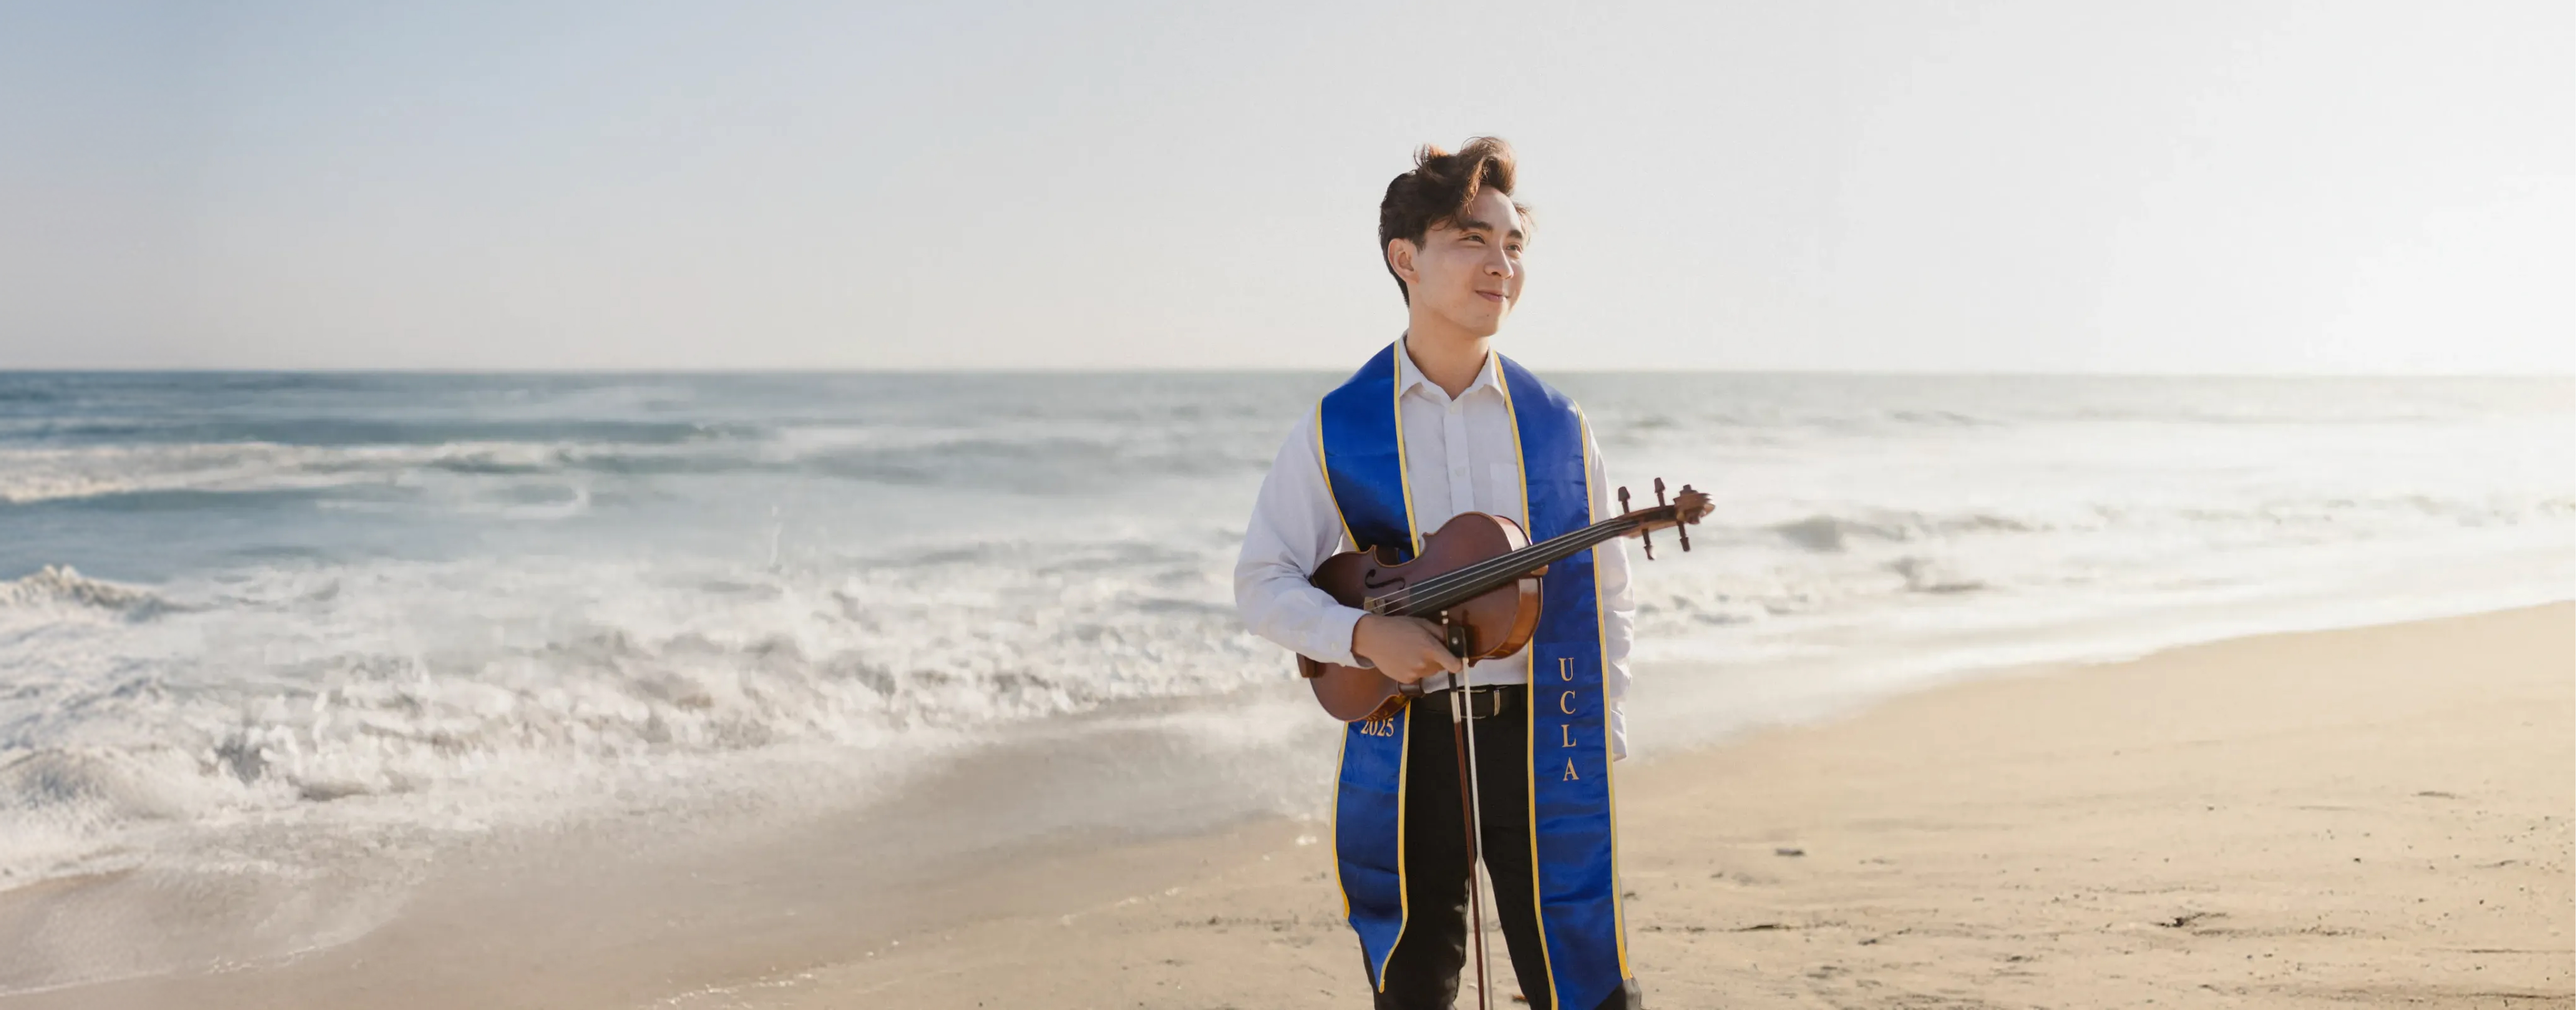
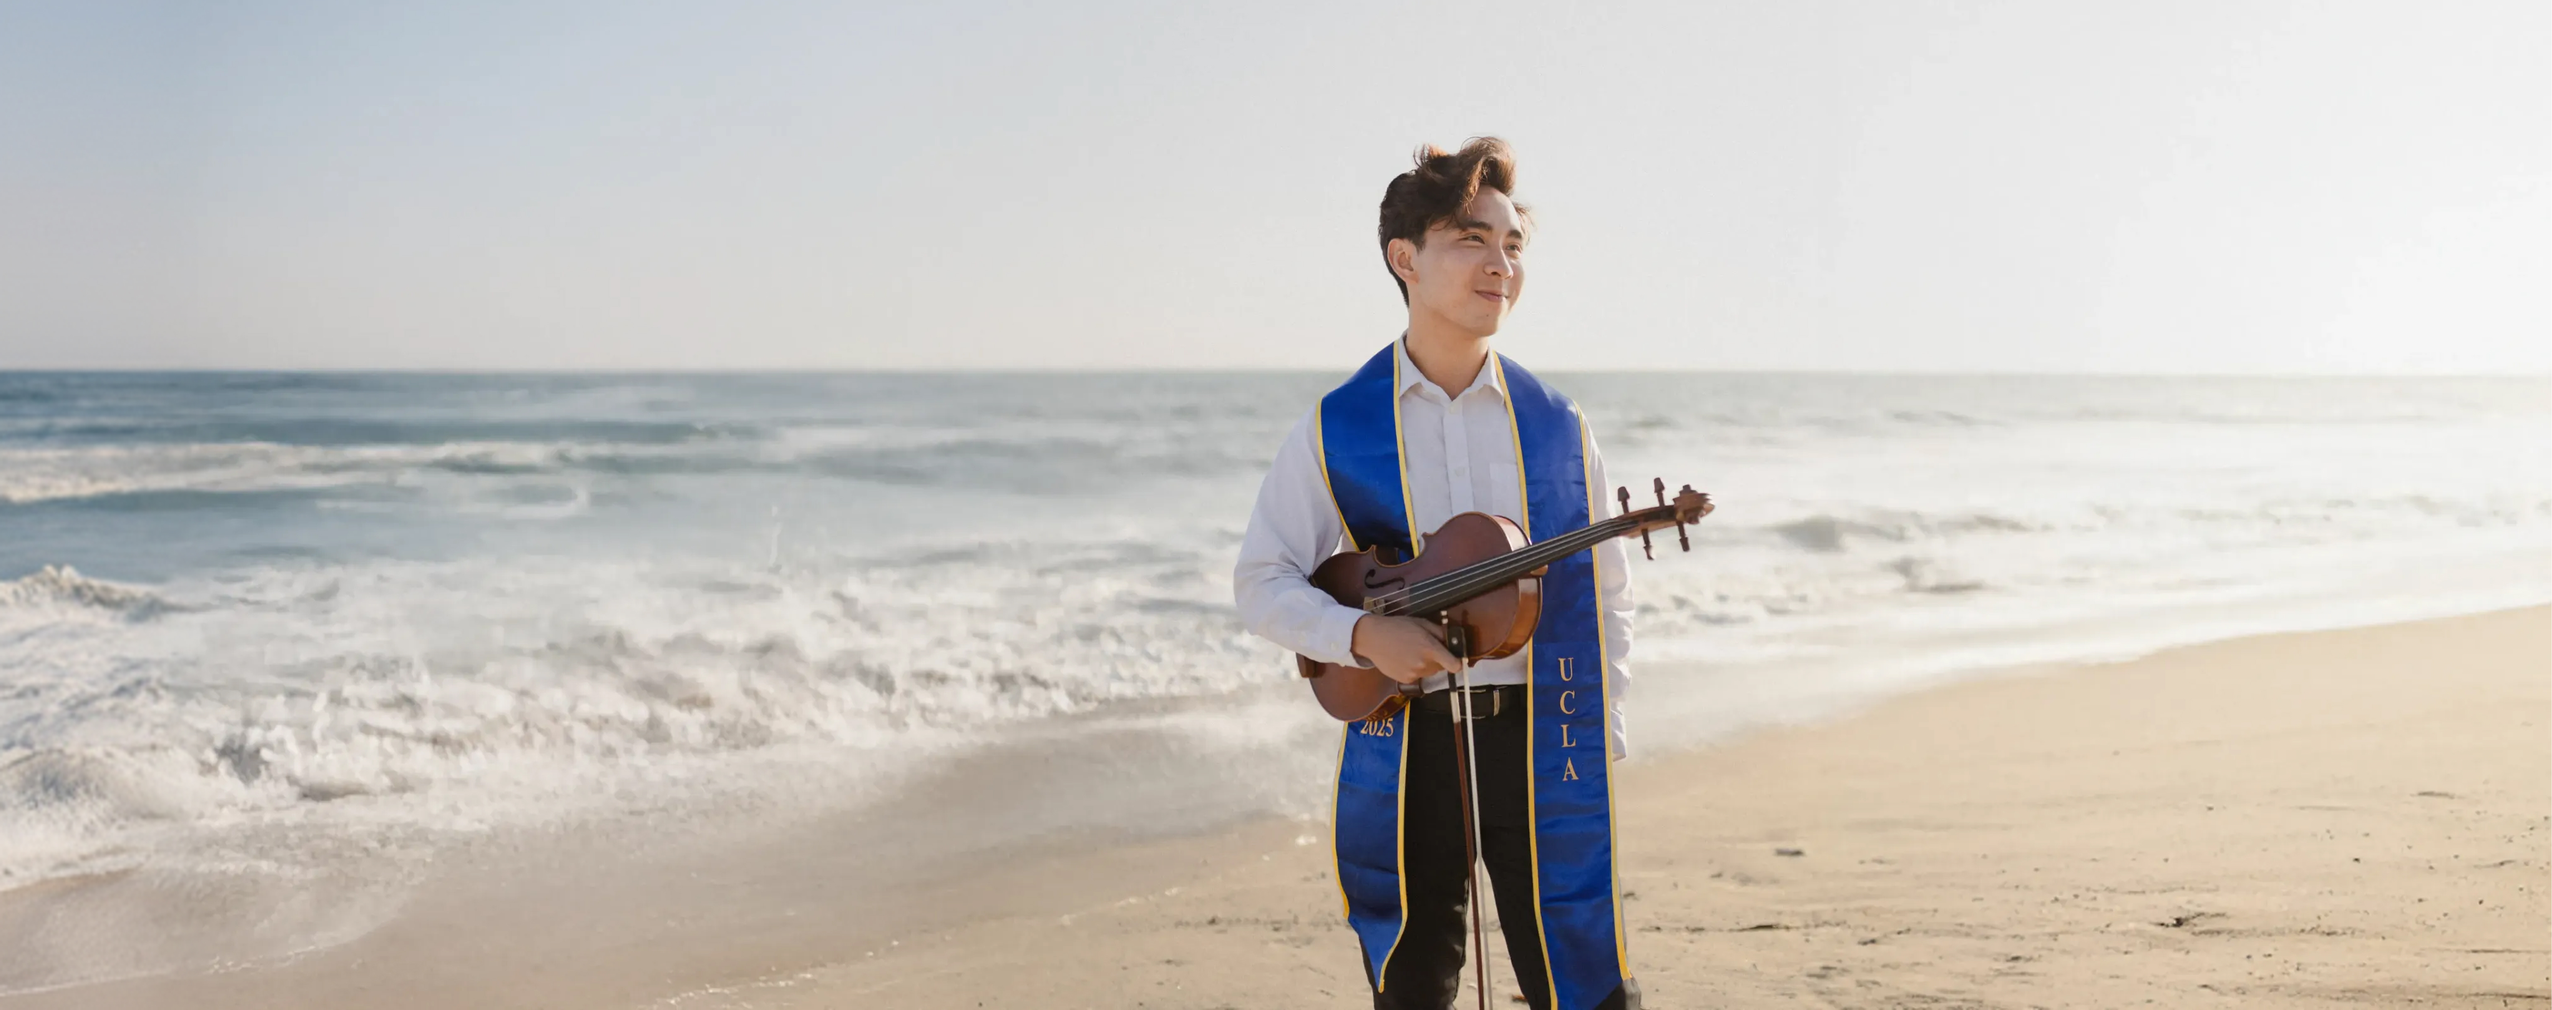
tweaks pt. 3

diff --git a/index.html b/index.html
@@ -262,8 +262,8 @@
           <div class="features">
             <div class="feature reveal">
               <p class="subheading">Custom Setlist</p>
-              <p>Unlimited selections from my <a  class="nav-music-2 inline" onclick="enableScroll()">repertoire</a> of 160+ songs <em>(outside requests not included)</em>.</p>
-              <!-- repertoire count as of 04/30/2026: 168 -->
+              <p>Unlimited selections from my <a  class="nav-music-2 inline" onclick="enableScroll()">repertoire</a> of 170+ songs <em>(outside requests not included)</em>.</p>
+              <!-- repertoire count as of 05/01/2026: 170 -->
             </div>
             <div class="feature reveal">
               <p class="subheading">Rehearsal Recordings</p>
@@ -318,7 +318,7 @@
                       Drivers License ∙ Olivia Rodrigo<br>
                       Enchanted ∙ Taylor Swift<br>
                       Everything ∙ Michael Bublé<br>
-                      Give Me Everything ∙ Pitbull, AFROJACK, and Ne-Yo feat. Nayer<br>
+                      Give Me Everything ∙ Pitbull, AFROJACK, and Ne-Yo ft. Nayer<br>
                       Gravity ∙ John Mayer<br>
                       Haven't Met You Yet ∙ Michael Bublé<br>
                       Heart Attack ∙ Wild Rivers<br>
@@ -357,7 +357,7 @@
                       Story of My Life ∙ One Direction<br>
                       Sweet Pumpkin ∙ Samara Joy<br>
                       Thinking out Loud ∙ Ed Sheeran<br>
-                      <!-- To Build a Home ∙ The Cinematic Orchestra and Patrick Watson<br> -->
+                      To Build a Home ∙ The Cinematic Orchestra and Patrick Watson<br>
                       Turning Page ∙ Sleeping at Last<br>
                       Until I Found You ∙ Stephen Sanchez<br>
                       Valentine ∙ Laufey<br>
@@ -390,7 +390,7 @@
                       Don't Stop Believin' ∙ Journey<br>
                       Every Breath You Take ∙ The Police<br>
                       Friends in Low Places ∙ Garth Brooks<br>
-                      <!-- Forever Young ∙ Alphaville<br> -->
+                      Forever Young ∙ Alphaville<br>
                       Gia ena Tango ∙ Haris Alexiou<br>
                       Hallelujah ∙ Leonard Cohen<br>
                       Honky Cat ∙ Elton John<br>

diff --git a/css/main.css b/css/main.css
@@ -117,9 +117,9 @@ h3 {
 
 h1 {
   text-transform: uppercase;
-  font-size: min(22vw, 16rem);
+  font-size: max(14vw, 14rem);
   letter-spacing: -8px;
-  word-spacing: 10rem;
+  word-spacing: 18vh;
   text-align: center;
   white-space: nowrap;
 
@@ -320,11 +320,12 @@ a {
   overflow: hidden;
 }
 
+/* TODO: make fully responsive */
 .fold img {
   width: 100%;
   height: 100%;
   object-fit: cover;
-  object-position: center;
+  object-position: 53% 35%;
   transform: scale(1);
 }
 
